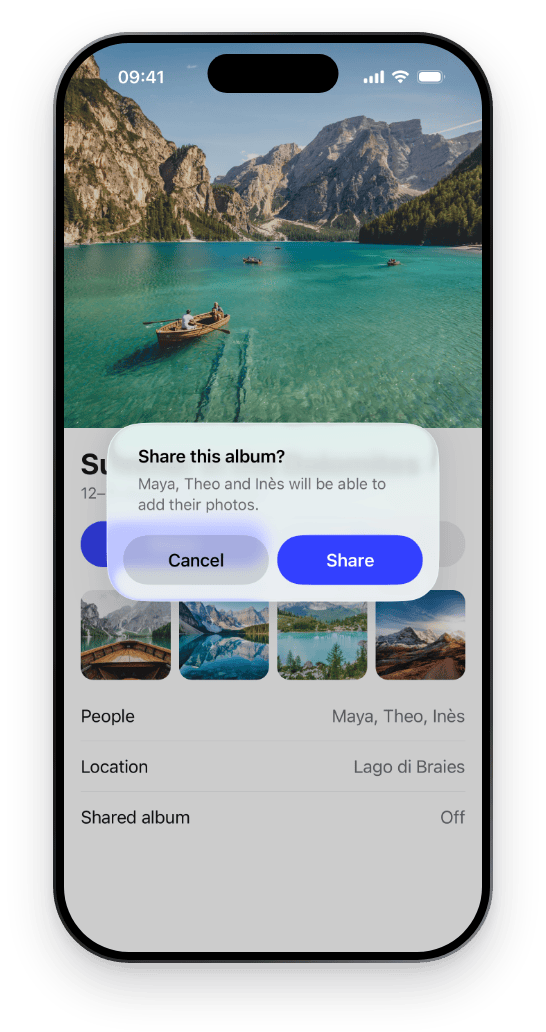
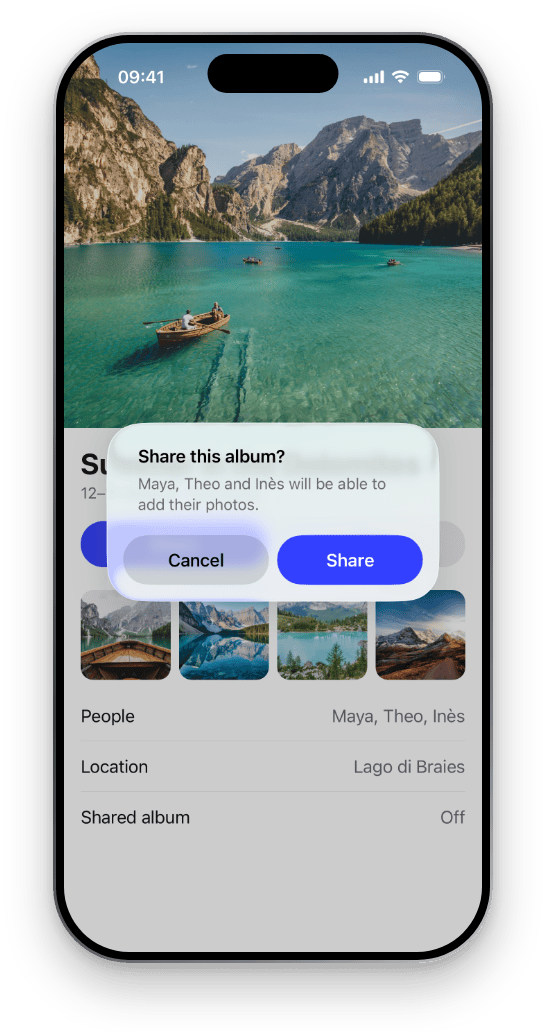
docs(readme): show one image per screenshot, light and dark side by side

diff --git a/scripts/screenshots/frame.py b/scripts/screenshots/frame.py
@@ -3,11 +3,10 @@
 
 Usage: frame.py <raw_dir> <out_dir>
 
-<raw_dir>/<platform>-<scene>-<light|dark>.png come from capture.sh. Writes, each in a light
-and a dark version (a darker metal and a soft shadow for light pages, a lighter rim for dark
-ones), on a transparent background:
-  <out_dir>/<platform>-<scene>-<appearance>.png   one framed phone, for the table
-  <out_dir>/hero-<appearance>.png                 HERO's phones side by side, under the intro
+<raw_dir>/<platform>-<scene>-<light|dark>.png come from capture.sh. Writes, on a transparent
+background, with one rim that reads on light and dark pages:
+  <out_dir>/<platform>-<scene>-<appearance>.png   one framed phone per CELLS entry, for the table
+  <out_dir>/hero.png                              HERO's phones side by side, under the intro
 Each page is HTML (CSS frame, camera cutout) rendered by headless Chrome, then pngquant.
 Needs Google Chrome and pngquant.
 """
@@ -20,8 +19,11 @@ from pathlib import Path
 CHROME = '/Applications/Google Chrome.app/Contents/MacOS/Google Chrome'
 
 # What the README shows: the table's cells, and the hero's phones from left to right.
-CELLS = [f'{p}-{s}' for s in ('album', 'notes') for p in ('ios26', 'ios18', 'android')]
-HERO = ['ios26-album', 'android-notes']
+# Each image is the same for every reader: GitHub swaps <picture> sources by the OS, not by its
+# own theme setting, and npm never swaps. So each slot shows one appearance, and the hero both.
+CELLS = [(f'{p}-album', 'light') for p in ('ios26', 'ios18', 'android')] + \
+        [(f'{p}-notes', 'dark') for p in ('ios26', 'ios18', 'android')]
+HERO = [('ios26-album', 'light'), ('android-notes', 'dark')]
 
 # Frames, as fractions of the phone's width. iPhone: a metal rim, a black bezel, the Dynamic
 # Island (126 x 37 pt, 11 pt from the top of a 402 pt screen). Pixel 9: a satin rim, a thin
@@ -30,14 +32,9 @@ PHONES = {
     'ios': dict(r=0.172, rim=0.0065, bezel=0.019, cutout='island'),
     'android': dict(r=0.118, rim=0.0075, bezel=0.021, cutout='hole'),
 }
-METAL = {
-    'light': 'linear-gradient(135deg,#a9a9ae 0%,#3a3a3e 18%,#141416 50%,#3a3a3e 82%,#8e8e93 100%)',
-    'dark': 'linear-gradient(135deg,#e4e4e8 0%,#8a8a90 18%,#55555a 50%,#8a8a90 82%,#d2d2d7 100%)',
-}
-SHADOW = {
-    'light': '0 {a}px {b}px rgba(11,11,15,.20),0 {c}px {d}px rgba(11,11,15,.10)',
-    'dark': '0 {a}px {b}px rgba(0,0,0,.55),0 {c}px {d}px rgba(0,0,0,.35)',
-}
+# One rim and shadow that read on GitHub's light and dark pages and on npm.
+METAL = 'linear-gradient(135deg,#d1d1d6 0%,#7c7c82 18%,#3a3a3e 50%,#7c7c82 82%,#c7c7cc 100%)'
+SHADOW = '0 {a}px {b}px rgba(0,0,0,.28),0 {c}px {d}px rgba(0,0,0,.16)'
 
 CELL_W = 440          # table cells show at 220 px
 HERO_PHONE_W = 600    # the hero shows at ~880 px, so phones at ~330 px
@@ -69,7 +66,7 @@ def phone(img, platform, appearance, w, left, top):
     sh = round(sw * ih / iw)
     h = sh + 2 * (rim + bezel)
     r = round(w * p['r'])
-    shadow = SHADOW[appearance].format(a=round(w * .05), b=round(w * .11), c=round(w * .012), d=round(w * .03))
+    shadow = SHADOW.format(a=round(w * .05), b=round(w * .11), c=round(w * .012), d=round(w * .03))
     if p['cutout'] == 'island':
         cw, ch = sw * 126 / 402, sw * 37.3 / 402
         cutout = f'<div class="island" style="top:{sw * 11 / 402:.1f}px;width:{cw:.1f}px;height:{ch:.1f}px;border-radius:{ch / 2:.1f}px"></div>'
@@ -77,7 +74,7 @@ def phone(img, platform, appearance, w, left, top):
         d = sw * 0.034
         cutout = f'<div class="hole" style="top:{sh * 0.0215 - d / 2:.1f}px;width:{d:.1f}px;height:{d:.1f}px;border-radius:50%"></div>'
     html = (f'<div class="frame" style="left:{left}px;top:{top}px;width:{w}px;height:{h}px;border-radius:{r}px;'
-            f'padding:{rim}px;background:{METAL[appearance]};box-shadow:{shadow}">'
+            f'padding:{rim}px;background:{METAL};box-shadow:{shadow}">'
             f'<div class="bezel" style="border-radius:{r - rim}px;padding:{bezel}px">'
             f'<div class="screen" style="border-radius:{r - rim - bezel}px"><img src="{img.resolve().as_uri()}">{cutout}</div>'
             f'</div></div>')
@@ -100,27 +97,25 @@ def render(html, png, width, height):
 
 def main(raw, out):
     out.mkdir(parents=True, exist_ok=True)
-    for appearance in ('light', 'dark'):
-        for cell in CELLS:
-            img = raw / f'{cell}-{appearance}.png'
-            if not img.exists():
-                sys.exit(f'missing capture: {img}')
-            pad = round(CELL_W * PAD)
-            html, h = phone(img, cell.split('-')[0], appearance, CELL_W, pad, round(pad * .6))
-            W, H = CELL_W + 2 * pad, h + round(pad * 1.9)
-            render(PAGE.format(W=W, H=H, phones=html), out / f'{cell}-{appearance}.png', W, H)
-        pad = round(HERO_PHONE_W * PAD)
-        parts, heights = [], []
-        for i, shot in enumerate(HERO):
-            img = raw / f'{shot}-{appearance}.png'
-            html, h = phone(img, shot.split('-')[0], appearance, HERO_PHONE_W,
-                            pad + i * (HERO_PHONE_W + HERO_GAP), round(pad * .6))
-            parts.append(html)
-            heights.append(h)
-        W = 2 * pad + len(HERO) * HERO_PHONE_W + (len(HERO) - 1) * HERO_GAP
-        H = max(heights) + round(pad * 1.9)
-        render(PAGE.format(W=W, H=H, phones=''.join(parts)), out / f'hero-{appearance}.png', W, H)
-
+    for cell, appearance in CELLS:
+        img = raw / f'{cell}-{appearance}.png'
+        if not img.exists():
+            sys.exit(f'missing capture: {img}')
+        pad = round(CELL_W * PAD)
+        html, h = phone(img, cell.split('-')[0], appearance, CELL_W, pad, round(pad * .6))
+        W, H = CELL_W + 2 * pad, h + round(pad * 1.9)
+        render(PAGE.format(W=W, H=H, phones=html), out / f'{cell}-{appearance}.png', W, H)
+    pad = round(HERO_PHONE_W * PAD)
+    parts, heights = [], []
+    for i, (shot, appearance) in enumerate(HERO):
+        img = raw / f'{shot}-{appearance}.png'
+        html, h = phone(img, shot.split('-')[0], appearance, HERO_PHONE_W,
+                        pad + i * (HERO_PHONE_W + HERO_GAP), round(pad * .6))
+        parts.append(html)
+        heights.append(h)
+    W = 2 * pad + len(HERO) * HERO_PHONE_W + (len(HERO) - 1) * HERO_GAP
+    H = max(heights) + round(pad * 1.9)
+    render(PAGE.format(W=W, H=H, phones=''.join(parts)), out / 'hero.png', W, H)
 
 if __name__ == '__main__':
     if not shutil.which('pngquant'):

diff --git a/README.md b/README.md
@@ -12,12 +12,12 @@ Native alerts and text prompts for React Native, drawn by UIKit and Material 3 i
 - **iOS**: `UIAlertController`, tinted. React Native's `Alert` always draws its buttons in the system blue. On iOS 26 the preferred button is filled with your tint, and gets a black label when the tint is light, so it stays readable in dark mode.
 - **Android**: Material 3 dialogs (`MaterialAlertDialogBuilder`) instead of React Native's AppCompat ones. Default, cancel and destructive buttons each take their own color. The prompt is an outlined Material 3 text field in your tint.
 
-<p align="center"><picture><source media="(prefers-color-scheme: dark)" srcset="docs/images/hero-dark.png"><source media="(prefers-color-scheme: light)" srcset="docs/images/hero-light.png"><img src="docs/images/hero-light.png" width="720" alt="An iPhone showing an indigo Share this album? alert over a photo album, next to an Android phone showing an amber Rename note dialog over a notes list"></picture></p>
+<p align="center"><img src="docs/images/hero.png" width="720" alt="An iPhone showing an indigo Share this album? alert over a photo album, next to an Android phone in dark mode showing an amber Rename note dialog over a notes list"></p>
 
-|          | iOS 26                                                                                                                                                                                                                                                                                                                                                                    | iOS 18                                                                                                                                                                                                                                                                                                                                       | Android                                                                                                                                                                                                                                                                                                                                                             |
-| -------- | ------------------------------------------------------------------------------------------------------------------------------------------------------------------------------------------------------------------------------------------------------------------------------------------------------------------------------------------------------------------------- | -------------------------------------------------------------------------------------------------------------------------------------------------------------------------------------------------------------------------------------------------------------------------------------------------------------------------------------------- | ------------------------------------------------------------------------------------------------------------------------------------------------------------------------------------------------------------------------------------------------------------------------------------------------------------------------------------------------------------------- |
-| `alert`  | <picture><source media="(prefers-color-scheme: dark)" srcset="docs/images/ios26-album-dark.png"><source media="(prefers-color-scheme: light)" srcset="docs/images/ios26-album-light.png"><img src="docs/images/ios26-album-light.png" width="220" alt="iOS 26: Share this album? alert over a photo album page, with a grey Cancel and an indigo filled Share"></picture> | <picture><source media="(prefers-color-scheme: dark)" srcset="docs/images/ios18-album-dark.png"><source media="(prefers-color-scheme: light)" srcset="docs/images/ios18-album-light.png"><img src="docs/images/ios18-album-light.png" width="220" alt="iOS 18: the same alert in the classic style, with indigo Cancel and Share"></picture> | <picture><source media="(prefers-color-scheme: dark)" srcset="docs/images/android-album-dark.png"><source media="(prefers-color-scheme: light)" srcset="docs/images/android-album-light.png"><img src="docs/images/android-album-light.png" width="220" alt="Android: Material 3 Share this album? dialog with an indigo Share"></picture>                          |
-| `prompt` | <picture><source media="(prefers-color-scheme: dark)" srcset="docs/images/ios26-notes-dark.png"><source media="(prefers-color-scheme: light)" srcset="docs/images/ios26-notes-light.png"><img src="docs/images/ios26-notes-light.png" width="220" alt="iOS 26: Rename note prompt over a notes list, with an amber filled Save"></picture>                                | <picture><source media="(prefers-color-scheme: dark)" srcset="docs/images/ios18-notes-dark.png"><source media="(prefers-color-scheme: light)" srcset="docs/images/ios18-notes-light.png"><img src="docs/images/ios18-notes-light.png" width="220" alt="iOS 18: Rename note prompt with amber Cancel and Save"></picture>                     | <picture><source media="(prefers-color-scheme: dark)" srcset="docs/images/android-notes-dark.png"><source media="(prefers-color-scheme: light)" srcset="docs/images/android-notes-light.png"><img src="docs/images/android-notes-light.png" width="220" alt="Android: Material 3 Rename note dialog with an amber outlined Name field and an amber Save"></picture> |
+|                     | iOS 26                                                                                                                                                                 | iOS 18                                                                                                                                    | Android                                                                                                                                                     |
+| ------------------- | ---------------------------------------------------------------------------------------------------------------------------------------------------------------------- | ----------------------------------------------------------------------------------------------------------------------------------------- | ----------------------------------------------------------------------------------------------------------------------------------------------------------- |
+| `alert`             | <img src="docs/images/ios26-album-light.png" width="220" alt="iOS 26: Share this album? alert over a photo album page, with a grey Cancel and an indigo filled Share"> | <img src="docs/images/ios18-album-light.png" width="220" alt="iOS 18: the same alert in the classic style, with indigo Cancel and Share"> | <img src="docs/images/android-album-light.png" width="220" alt="Android: Material 3 Share this album? dialog with an indigo Share">                         |
+| `prompt`, dark mode | <img src="docs/images/ios26-notes-dark.png" width="220" alt="iOS 26: Rename note prompt over a notes list, with an amber filled Save">                                 | <img src="docs/images/ios18-notes-dark.png" width="220" alt="iOS 18: Rename note prompt with amber Cancel and Save">                      | <img src="docs/images/android-notes-dark.png" width="220" alt="Android: Material 3 Rename note dialog with an amber outlined Name field and an amber Save"> |
 
 Photos by [Pietro De Grandi](https://unsplash.com/@peter_mc_greats?utm_source=27appstudio_showcase&utm_medium=referral), [Luca Bravo](https://unsplash.com/@lucabravo?utm_source=27appstudio_showcase&utm_medium=referral), [John Lee](https://unsplash.com/@john_artifexfilm?utm_source=27appstudio_showcase&utm_medium=referral), [Giammarco Boscaro](https://unsplash.com/@giamboscaro?utm_source=27appstudio_showcase&utm_medium=referral), [Cosmic Timetraveler](https://unsplash.com/@cosmictimetraveler?utm_source=27appstudio_showcase&utm_medium=referral), [Bruno Martins](https://unsplash.com/@brunus?utm_source=27appstudio_showcase&utm_medium=referral), [Brooke Lark](https://unsplash.com/@brookelark?utm_source=27appstudio_showcase&utm_medium=referral), [Nattu Adnan](https://unsplash.com/@reallynattu?utm_source=27appstudio_showcase&utm_medium=referral), [Adam Vradenburg](https://unsplash.com/@vradenburg?utm_source=27appstudio_showcase&utm_medium=referral), [Jei Lee](https://unsplash.com/@babybluecat?utm_source=27appstudio_showcase&utm_medium=referral) on [Unsplash](https://unsplash.com/?utm_source=27appstudio_showcase&utm_medium=referral). Each screen has its own tint (indigo, amber) and the dialog takes it. The scenes are in [`example/src/Showcase.tsx`](example/src/Showcase.tsx), captured and framed by [`scripts/screenshots`](scripts/screenshots).
 
